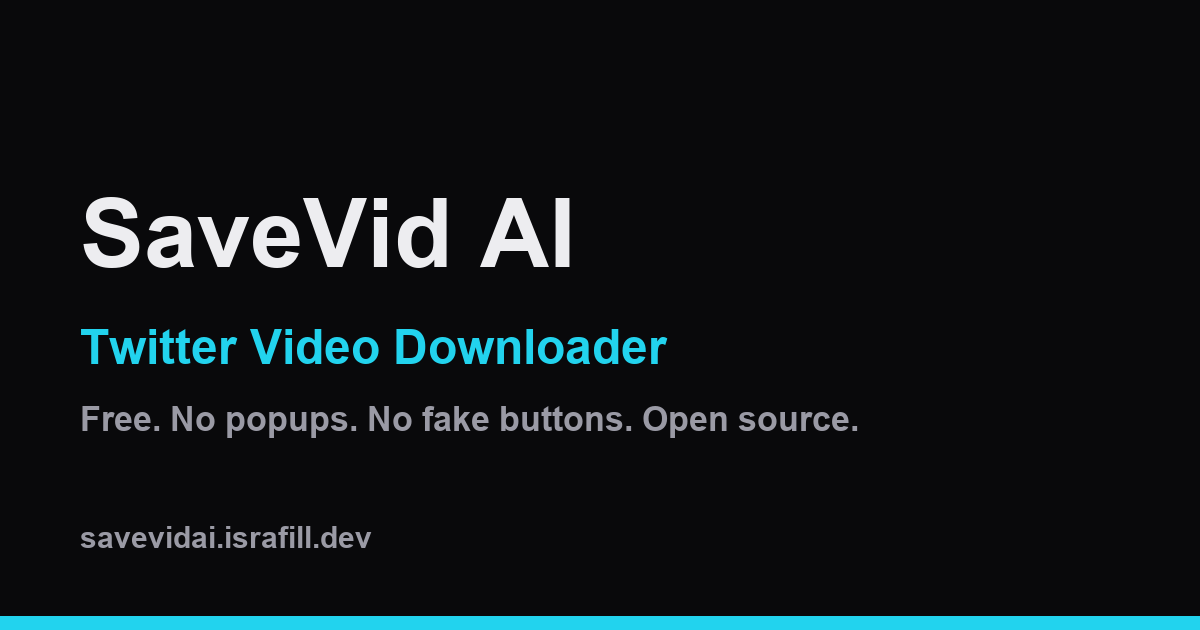
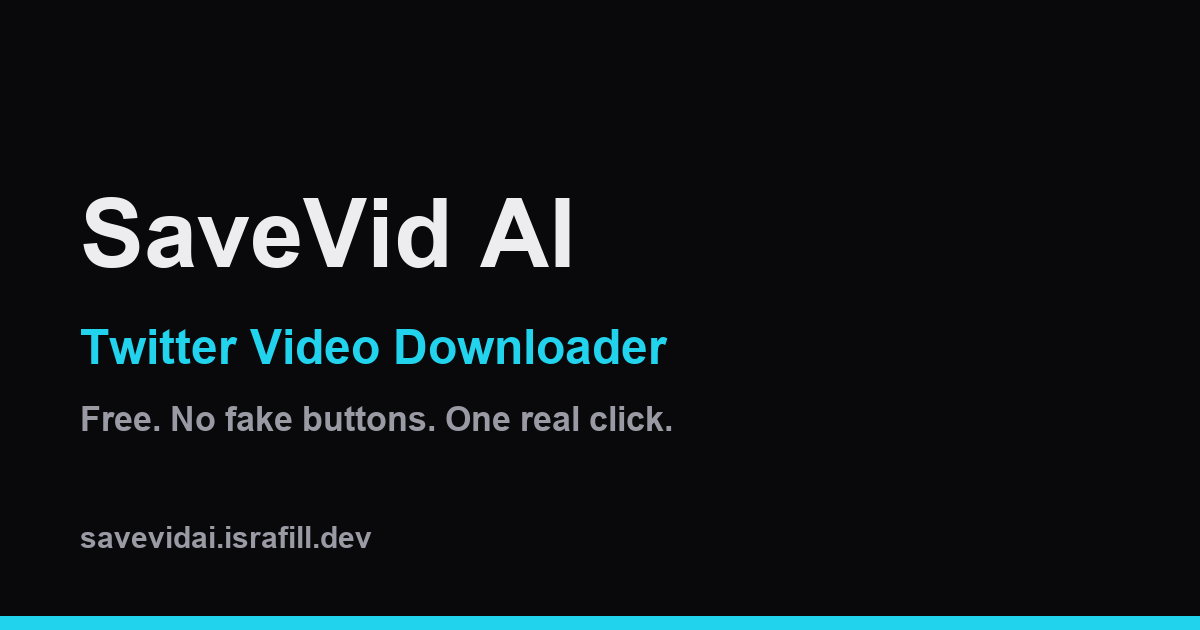
chore: sweep open-source/no-popups claims from og image, maintenance page, and docs
Repo is private and ad-supported now. Update the default og.png subtitle,
regenerate it, drop the open-source line and github link from the maintenance
page, strip the stars badge plus open-source/no-popups/star pitch from README,
flip CLAUDE.md to private/ad-supported, and delete CONTRIBUTING.md.

Changed region(s): [[0.185, 0.6333, 0.7092, 0.6937]]

diff --git a/frontend/public/maintenance.html b/frontend/public/maintenance.html
@@ -237,8 +237,7 @@
     </main>
 
     <footer>
-      thanks for using it. it's open source, always.<br />
-      <a href="https://github.com/OxIsrafil/savevidai" rel="noopener">github.com/OxIsrafil/savevidai</a>
+      thanks for using it. back in a few minutes.
     </footer>
 
     <script src="/maintenance/lottie.min.js"></script>

diff --git a/scripts/make_og.py b/scripts/make_og.py
@@ -26,7 +26,7 @@ VARIANTS = {
     "default": {
         "filename": "og.png",
         "title": "Twitter Video Downloader",
-        "subtitle": "Free. No popups. No fake buttons. Open source.",
+        "subtitle": "Free. No fake buttons. One real click.",
     },
     "tiktok": {
         "filename": "og-tiktok.png",

diff --git a/README.md b/README.md
@@ -2,25 +2,21 @@
 
 <p align="center">
   <a href="https://x.com/israfill"><img src="https://img.shields.io/badge/follow%20%40israfill%20on%20x-000000?style=for-the-badge&logo=x&logoColor=white" alt="Follow @israfill on X" /></a>
-  <a href="https://github.com/OxIsrafil/savevidai/stargazers"><img src="https://img.shields.io/github/stars/OxIsrafil/savevidai?style=for-the-badge&logo=github&color=blue" alt="GitHub stars" /></a>
   <a href="LICENSE"><img src="https://img.shields.io/badge/license-MIT-blue?style=for-the-badge" alt="License: MIT" /></a>
 </p>
 
 ![SaveVid AI - paste a tweet URL, pick a quality, download the video](docs/screenshot.png)
 
-Twitter/X video downloader with none of the garbage. Paste a post link, see a preview,
-pick a quality, download. No popups, no redirects, no fake download buttons, no tracking.
+Twitter/X video downloader. Paste a post link, see a preview, pick a quality, and
+download. No fake download buttons, and the download is never gated or delayed.
 
 **Live site:** https://savevidai.israfill.dev
 
-## Why another downloader
+## How it works
 
-Every existing Twitter video downloader is buried in popunders and fake buttons.
-SaveVid AI is the opposite: open source, one passive ad slot at most (off by default),
-and the download is never gated or delayed. Tweet metadata is resolved via the FixTweet
-API; the video itself is streamed through a locked-down proxy (Twitter's CDN refuses
-cross-origin browser reads), which is what makes the in-page progress bar and clean
-filenames possible.
+Tweet metadata is resolved via the FixTweet API; the video itself is streamed through a
+locked-down proxy (Twitter's CDN refuses cross-origin browser reads), which is what makes
+the in-page progress bar and clean filenames possible.
 
 ## Features
 
@@ -75,7 +71,7 @@ SaveVid AI resolves videos through the FixTweet public API (`api.fxtwitter.com`)
 with `api.vxtwitter.com` as a fallback, because Twitter closed anonymous video
 access to yt-dlp. If resolving stops working, first check whether FixTweet itself
 is up, then check whether their JSON shape changed (`backend/app/extractor.py`
-maps it). Run the smoke test to confirm. See CONTRIBUTING for details.
+maps it). Run the smoke test to confirm.
 
 ## Traffic stats without tracking
 
@@ -111,7 +107,5 @@ MIT
 <p align="center">
   <b>SaveVid AI<span>.</span></b><br/>
   built by <a href="https://x.com/israfill"><b>@israfill</b></a> ·
-  <a href="https://github.com/OxIsrafil">GitHub</a> ·
-  <a href="https://savevidai.israfill.dev">savevidai.israfill.dev</a><br/>
-  <sub>If this saved you from a popup hell site, drop it a star</sub>
+  <a href="https://savevidai.israfill.dev">savevidai.israfill.dev</a>
 </p>

diff --git a/CLAUDE.md b/CLAUDE.md
@@ -1,7 +1,7 @@
 # SaveVid AI - project context
 
-Open source, ad-free social video downloader. Live at https://savevidai.israfill.dev
-Public repo: https://github.com/OxIsrafil/savevidai (owner: OxIsrafil, X: @israfill).
+Ad-supported social video downloader. Live at https://savevidai.israfill.dev
+Private repo: https://github.com/OxIsrafil/savevidai (owner: OxIsrafil, X: @israfill).
 
 This file is auto-loaded into every chat opened in this repo. Read it first, then check
 the owner's global memory and the ledger below before starting work.
